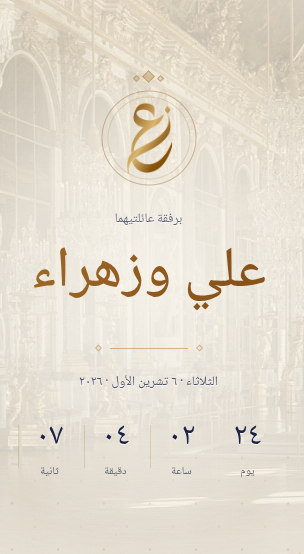
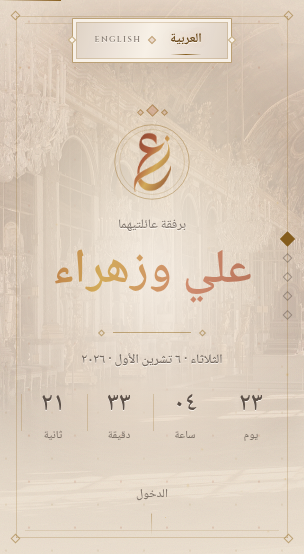
t

diff --git a/app/globals.css b/app/globals.css
@@ -8,19 +8,23 @@
   --serif: "Cormorant Garamond", Georgia, serif;
   --arabic: "Noto Naskh Arabic", "Amiri", serif;
   --arabic-display: "Aref Ruqaa", "Noto Naskh Arabic", serif;
-  --paper: #f6f1e6;
-  --paper-warm: #fbf7ee;
-  --ink: #1b2246;
-  --ink-soft: rgba(27, 34, 70, 0.74);
-  --ink-faint: rgba(27, 34, 70, 0.68);
-  --gold: oklch(0.5 0.105 68);
-  --gold-deep: oklch(0.44 0.1 64);
-  --gold-bright: oklch(0.79 0.1 84);
-  --gold-pale: oklch(0.88 0.06 86);
-  --wax: oklch(0.44 0.135 26);
-  --line: oklch(0.62 0.1 72 / 0.5);
-  --line-soft: oklch(0.62 0.1 72 / 0.24);
-  --ts: 0 1px 0 rgba(255, 253, 247, 0.8);
+  /* Warm terracotta, antique gold and modern greige. */
+  --paper: #eee3d4;
+  --paper-warm: #f8f1e8;
+  --ink: #5c5048;
+  --ink-soft: rgba(92, 80, 72, 0.82);
+  --ink-faint: rgba(92, 80, 72, 0.72);
+  --terracotta: #ad5c3d;
+  --terracotta-deep: #85442f;
+  --terracotta-soft: #cf8b6e;
+  --gold: #855d1d;
+  --gold-deep: #694718;
+  --gold-bright: #d2aa59;
+  --gold-pale: #ead7ab;
+  --wax: #974b34;
+  --line: rgba(149, 109, 37, 0.52);
+  --line-soft: rgba(149, 109, 37, 0.24);
+  --ts: 0 1px 0 rgba(255, 250, 244, 0.82);
 }
 
 @layer base {
@@ -69,7 +73,7 @@
     bottom: -7%;
     z-index: 0;
     will-change: transform;
-    background: radial-gradient(115% 90% at 50% 26%, #fdfaf3, #f4eee1 54%, #ebe3d2 100%);
+    background: radial-gradient(115% 90% at 50% 26%, #fbf4eb, #eadfce 54%, #dcd0c0 100%);
   }
 
   .art {
@@ -88,22 +92,22 @@
     height: 100%;
     object-fit: cover;
     animation: kb 30s ease-in-out infinite alternate;
-    filter: saturate(0.62) contrast(0.94) brightness(1.1);
+    filter: sepia(0.12) saturate(0.68) contrast(0.92) brightness(1.06) hue-rotate(-6deg);
   }
 
   .art:nth-child(even) img {
     animation-direction: alternate-reverse;
   }
 
-  /* Layer 1 · royal blue scrim */
+  /* Layer 1 · warm beige and terracotta veil */
   .scrim {
     position: fixed;
     inset: 0;
     z-index: 1;
     pointer-events: none;
     background:
-      linear-gradient(180deg, rgba(246, 241, 230, 0.9) 0%, rgba(246, 241, 230, 0.58) 24%, rgba(246, 241, 230, 0.62) 60%, rgba(246, 241, 230, 0.92) 100%),
-      radial-gradient(120% 82% at 50% 42%, rgba(250, 246, 238, 0.26) 18%, rgba(244, 238, 225, 0.88) 100%);
+      linear-gradient(180deg, rgba(238, 227, 212, 0.92) 0%, rgba(238, 227, 212, 0.62) 24%, rgba(238, 227, 212, 0.67) 60%, rgba(238, 227, 212, 0.94) 100%),
+      radial-gradient(120% 82% at 50% 42%, rgba(207, 139, 110, 0.22) 18%, rgba(220, 208, 193, 0.88) 100%);
   }
 
   /* Layer 2 · damask lattice + grain */
@@ -114,8 +118,8 @@
     pointer-events: none;
     opacity: 0.5;
     background-image:
-      radial-gradient(circle, oklch(0.62 0.1 72 / 0.4) 0 1.1px, transparent 1.6px),
-      radial-gradient(circle, oklch(0.62 0.1 72 / 0.22) 0 0.9px, transparent 1.4px);
+      radial-gradient(circle, rgba(173, 92, 61, 0.34) 0 1.1px, transparent 1.6px),
+      radial-gradient(circle, rgba(149, 109, 37, 0.2) 0 0.9px, transparent 1.4px);
     background-position: 0 0, 23px 23px;
     background-size: 46px 46px, 46px 46px;
     animation: sift 44s linear infinite;
@@ -142,7 +146,7 @@
     pointer-events: none;
     opacity: 0.5;
     transform: translate(-50%, -50%);
-    background: radial-gradient(closest-side, oklch(0.93 0.06 88 / 0.7), oklch(0.9 0.06 86 / 0.24) 42%, transparent 68%);
+    background: radial-gradient(closest-side, rgba(234, 215, 171, 0.72), rgba(207, 139, 110, 0.22) 42%, transparent 68%);
     animation: pulse 11s ease-in-out infinite;
   }
 
@@ -159,7 +163,7 @@
     position: absolute;
     bottom: -16px;
     border-radius: 50%;
-    background: radial-gradient(circle, oklch(0.7 0.11 76 / 0.9), oklch(0.7 0.11 76 / 0) 70%);
+    background: radial-gradient(circle, rgba(210, 170, 89, 0.92), rgba(210, 170, 89, 0) 70%);
     animation: drift linear infinite;
   }
 
@@ -203,7 +207,7 @@
     inset: -60px -42px;
     z-index: -1;
     pointer-events: none;
-    background: radial-gradient(closest-side, rgba(250, 247, 240, 0.86), rgba(250, 247, 240, 0.5) 60%, rgba(250, 247, 240, 0) 100%);
+    background: radial-gradient(closest-side, rgba(248, 241, 232, 0.88), rgba(238, 227, 212, 0.52) 60%, rgba(238, 227, 212, 0) 100%);
   }
 
   /* Bilingual control */
@@ -218,11 +222,11 @@
     justify-content: center;
     border: 1px solid var(--line);
     border-radius: 1px;
-    background: linear-gradient(105deg, rgba(242, 235, 221, 0.94), rgba(255, 252, 245, 0.96) 48%, rgba(242, 235, 221, 0.94));
+    background: linear-gradient(105deg, rgba(222, 210, 197, 0.96), rgba(248, 241, 232, 0.97) 48%, rgba(222, 210, 197, 0.96));
     padding: 5px 14px;
     box-shadow:
-      0 9px 28px rgba(82, 65, 34, 0.1),
-      inset 0 0 0 3px rgba(255, 253, 247, 0.84),
+      0 9px 28px rgba(92, 80, 72, 0.13),
+      inset 0 0 0 3px rgba(255, 250, 244, 0.84),
       inset 0 0 0 4px var(--line-soft);
     backdrop-filter: blur(12px);
     transform: translateX(-50%);
@@ -288,7 +292,7 @@
 
   .lang-switch button.active {
     color: var(--gold-deep);
-    text-shadow: 0 1px 0 rgba(255, 253, 247, 0.9), 0 0 12px oklch(0.79 0.1 84 / 0.22);
+    text-shadow: 0 1px 0 rgba(255, 250, 244, 0.9), 0 0 12px rgba(207, 139, 110, 0.28);
   }
 
   .lang-switch button.active::after {
@@ -309,7 +313,7 @@
     height: 6px;
     flex: 0 0 6px;
     border: 1px solid var(--line);
-    background: oklch(0.79 0.1 84 / 0.16);
+    background: rgba(173, 92, 61, 0.15);
     transform: rotate(45deg);
   }
 
@@ -381,7 +385,7 @@
     left: 9px;
     right: 9px;
     height: 1px;
-    background: oklch(0.62 0.1 72 / 0.14);
+    background: rgba(149, 109, 37, 0.14);
     transform: scaleX(0);
     transition: transform 1.4s cubic-bezier(0.22, 0.7, 0.2, 1) 0.5s;
   }
@@ -427,8 +431,8 @@
     font-size: clamp(54px, 15.5vw, 78px);
     font-weight: 400;
     line-height: 1.14;
-    filter: drop-shadow(0 1px 1px rgba(255, 253, 247, 0.9));
-    background: linear-gradient(100deg, oklch(0.5 0.1 64) 10%, oklch(0.83 0.09 88) 40%, oklch(0.62 0.11 74) 50%, oklch(0.49 0.1 62) 86%);
+    filter: drop-shadow(0 1px 1px rgba(255, 250, 244, 0.9));
+    background: linear-gradient(100deg, var(--terracotta-deep) 8%, var(--terracotta) 34%, var(--gold-bright) 48%, var(--terracotta-soft) 61%, var(--terracotta-deep) 90%);
     background-clip: text;
     background-size: 270% 100%;
     -webkit-background-clip: text;
@@ -592,7 +596,7 @@
   .orn i:nth-child(2) {
     width: 7px;
     height: 7px;
-    background: oklch(0.62 0.1 72 / 0.26);
+    background: rgba(173, 92, 61, 0.22);
   }
 
   /* Crest: coronet of jewels over a drawn medallion */
@@ -617,14 +621,14 @@
     width: 5px;
     height: 5px;
     border: 1px solid var(--line);
-    background: oklch(0.62 0.1 72 / 0.2);
+    background: rgba(173, 92, 61, 0.18);
     transform: rotate(45deg);
   }
 
   .coronet i:nth-child(2) {
     width: 9px;
     height: 9px;
-    background: oklch(0.62 0.1 72 / 0.34);
+    background: rgba(173, 92, 61, 0.3);
   }
 
   .medal {
@@ -653,7 +657,7 @@
   }
 
   .medal circle.inner {
-    stroke: oklch(0.62 0.1 72 / 0.24);
+    stroke: var(--line-soft);
     stroke-dasharray: 264;
     stroke-dashoffset: 264;
     animation-delay: 0.75s;
@@ -663,13 +667,13 @@
     position: absolute;
     width: 48px;
     height: 72px;
-    filter: drop-shadow(0 1px 0 rgba(255, 253, 247, 0.92)) drop-shadow(0 2px 4px oklch(0.44 0.1 64 / 0.12));
+    filter: drop-shadow(0 1px 0 rgba(255, 250, 244, 0.92)) drop-shadow(0 2px 4px rgba(133, 68, 47, 0.14));
     background: url("/ali-zahraa-day-logo.png") center / contain no-repeat;
   }
 
   @supports ((mask-image: url("/ali-zahraa-day-logo.png")) or (-webkit-mask-image: url("/ali-zahraa-day-logo.png"))) {
     .medal .day-logo {
-      background: linear-gradient(120deg, var(--gold-deep) 5%, var(--gold-bright) 46%, var(--gold) 72%, var(--gold-deep));
+      background: linear-gradient(120deg, var(--terracotta-deep) 5%, var(--terracotta) 36%, var(--gold-bright) 58%, var(--terracotta-deep));
       -webkit-mask: url("/ali-zahraa-day-logo.png") center / contain no-repeat;
       mask: url("/ali-zahraa-day-logo.png") center / contain no-repeat;
     }
@@ -739,7 +743,7 @@
     justify-content: center;
     border: 1px solid var(--line);
     border-radius: 1px;
-    background: rgba(255, 253, 247, 0.5);
+    background: rgba(248, 241, 232, 0.58);
     padding: 11px 22px;
     color: var(--ink);
     font-family: var(--roman);
@@ -752,8 +756,8 @@
   }
 
   .btn:hover {
-    border-color: var(--ink);
-    background: var(--ink);
+    border-color: var(--terracotta-deep);
+    background: var(--terracotta-deep);
     color: var(--paper-warm);
   }
 
@@ -774,7 +778,7 @@
     flex-direction: column;
     gap: 5px;
     border: 1px solid var(--line-soft);
-    background: rgba(255, 253, 247, 0.66);
+    background: rgba(248, 241, 232, 0.7);
     padding: 22px 20px;
     backdrop-filter: blur(6px);
   }
@@ -907,7 +911,7 @@
     width: 7px;
     height: 7px;
     cursor: pointer;
-    border: 1px solid rgba(27, 34, 70, 0.42);
+    border: 1px solid rgba(92, 80, 72, 0.46);
     background: transparent;
     padding: 0;
     transform: rotate(45deg);
@@ -973,7 +977,7 @@
     bottom: 0;
     display: block;
     width: 50.3%;
-    background: linear-gradient(100deg, #eee6d4, #fdfaf3 46%, #ece3d0);
+    background: linear-gradient(100deg, #ddcfc1, #f8f1e8 46%, #e7d8c9);
     transition: transform 2s cubic-bezier(0.58, 0.02, 0.18, 1), filter 2s ease;
   }
 
@@ -981,26 +985,26 @@
     content: "";
     position: absolute;
     inset: 22px 20px;
-    border: 1px solid oklch(0.62 0.1 72 / 0.4);
-    box-shadow: inset 0 0 0 5px rgba(253, 250, 243, 0.9), inset 0 0 0 6px oklch(0.62 0.1 72 / 0.17), inset 0 0 70px rgba(150, 124, 80, 0.16);
+    border: 1px solid rgba(149, 109, 37, 0.42);
+    box-shadow: inset 0 0 0 5px rgba(248, 241, 232, 0.92), inset 0 0 0 6px rgba(149, 109, 37, 0.17), inset 0 0 70px rgba(173, 92, 61, 0.16);
   }
 
   .leaf::after {
     content: "";
     position: absolute;
     inset: 44px 42px;
-    border: 1px solid oklch(0.62 0.1 72 / 0.17);
+    border: 1px solid rgba(149, 109, 37, 0.2);
   }
 
   .leaf.l {
     left: 0;
-    box-shadow: inset -22px 0 44px rgba(150, 124, 80, 0.17);
+    box-shadow: inset -22px 0 44px rgba(133, 68, 47, 0.18);
     transform-origin: left center;
   }
 
   .leaf.r {
     right: 0;
-    box-shadow: inset 22px 0 44px rgba(150, 124, 80, 0.17);
+    box-shadow: inset 22px 0 44px rgba(133, 68, 47, 0.18);
     transform-origin: right center;
   }
 
@@ -1011,7 +1015,7 @@
     width: 24px;
     height: 24px;
     margin-top: -12px;
-    border: 1px solid oklch(0.62 0.1 72 / 0.5);
+    border: 1px solid rgba(149, 109, 37, 0.52);
     border-radius: 50%;
   }
 
@@ -1027,7 +1031,7 @@
     width: 2px;
     opacity: 0.55;
     filter: blur(1px);
-    background: linear-gradient(180deg, transparent, oklch(0.72 0.11 78 / 0.5) 22%, oklch(0.66 0.12 74 / 0.85) 50%, oklch(0.72 0.11 78 / 0.5) 78%, transparent);
+    background: linear-gradient(180deg, transparent, rgba(210, 170, 89, 0.5) 22%, rgba(173, 92, 61, 0.84) 50%, rgba(210, 170, 89, 0.5) 78%, transparent);
     transform: translateX(-50%);
     transition: width 1.9s ease, opacity 2s ease, filter 1.9s ease;
   }

diff --git a/tailwind.config.ts b/tailwind.config.ts
@@ -13,9 +13,11 @@ const config: Config = {
         serif: ["Cormorant Garamond", "Georgia", "serif"],
       },
       colors: {
-        paper: "#f6f1e6",
-        "paper-warm": "#fbf7ee",
-        ink: "#1b2246",
+        paper: "#eee3d4",
+        "paper-warm": "#f8f1e8",
+        ink: "#5c5048",
+        terracotta: "#ad5c3d",
+        gold: "#855d1d",
       },
     },
   },
